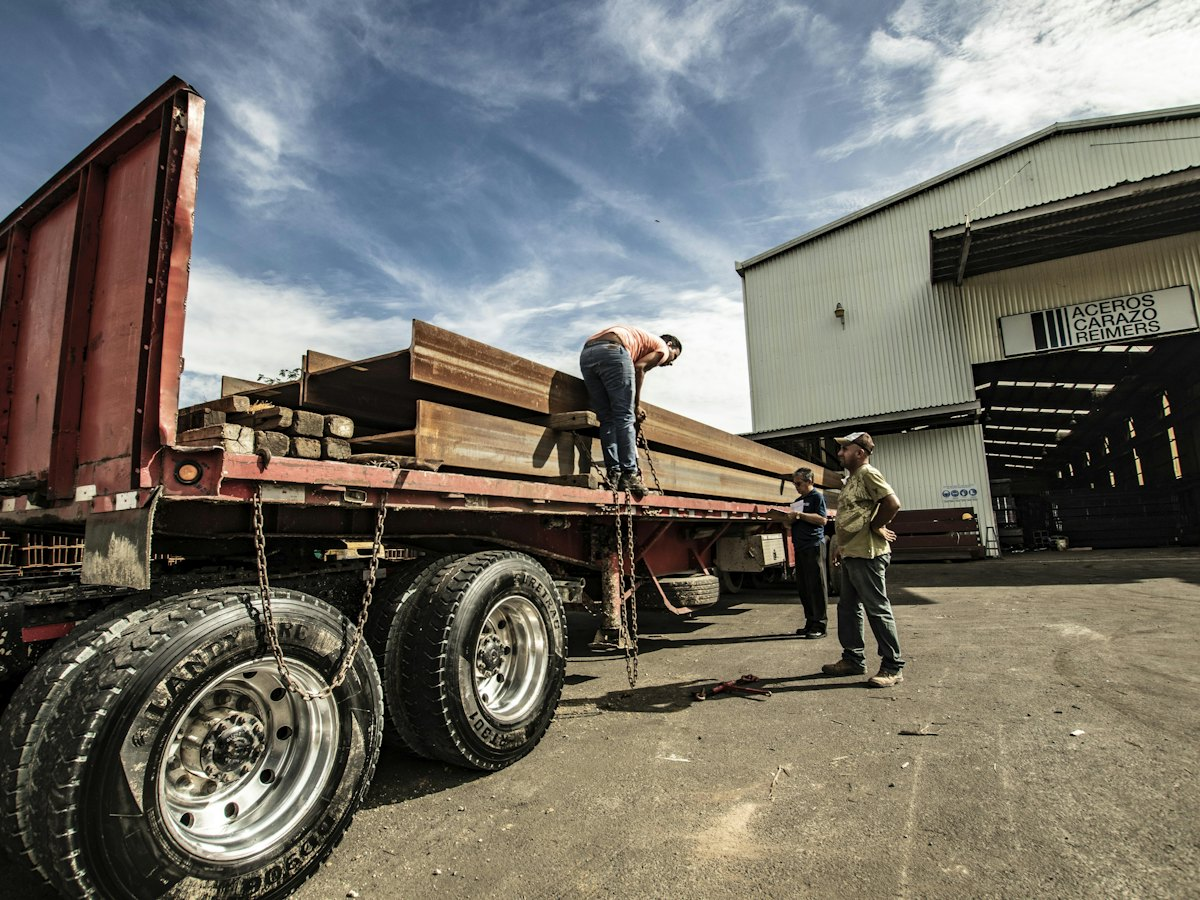
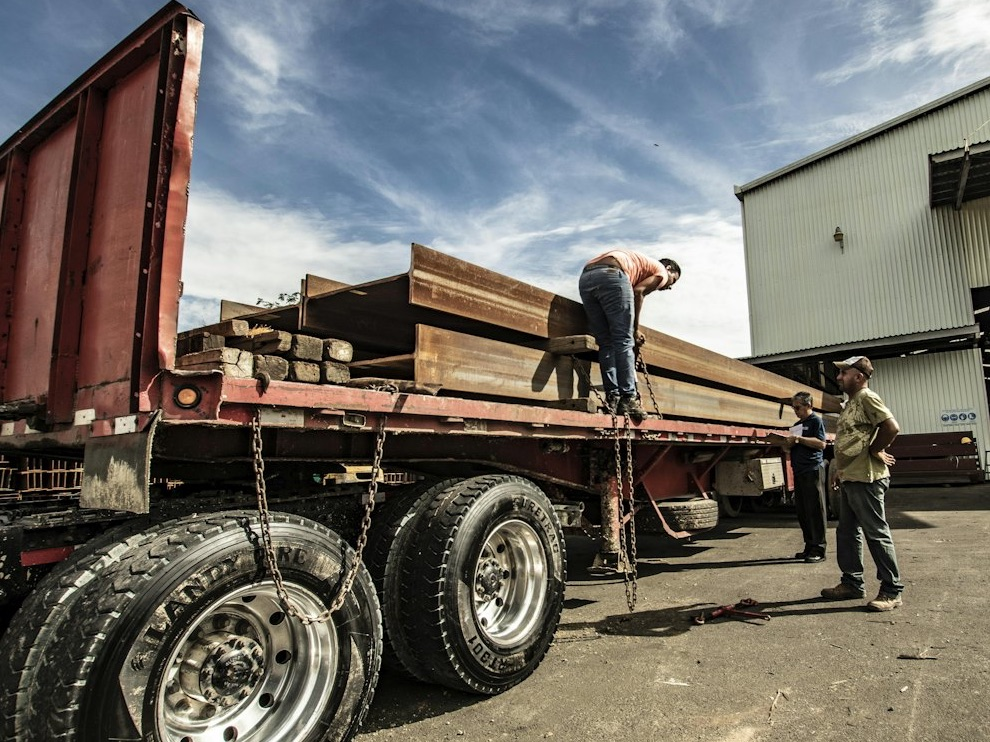
Ferretería: portada recortada sin el rótulo de otra empresa

diff --git a/src/demos/ferreteria/FerreteriaDemo.tsx b/src/demos/ferreteria/FerreteriaDemo.tsx
@@ -204,7 +204,7 @@ function Portada({ buscar }: { buscar: (t: string) => void }) {
             </div>
           </div>
           <figure className="relative">
-            <img src={AMBIENTE.portada} alt="Camión de plataforma cargando acero frente a una bodega" width={1200} height={900} fetchPriority="high" className="block aspect-[4/3] w-full rounded-xl border border-slate-200 object-cover" />
+            <img src={AMBIENTE.portada} alt="Camión de plataforma cargando acero frente a una bodega" width={990} height={742} fetchPriority="high" className="block aspect-[4/3] w-full rounded-xl border border-slate-200 object-cover" />
             <figcaption className="ik-oscuro absolute inset-x-3 bottom-3 flex items-center justify-between gap-3 rounded-lg bg-[#0F172A] px-4 py-3 text-white">
               <span className="text-[0.86rem] font-semibold">Flete propio hasta su obra</span>
               <span className="ik-num whitespace-nowrap text-[0.86rem] font-bold">desde {qz(Math.min(...ZONAS.map((z) => z.flete)))}</span>

diff --git a/src/assets/demo-ferreteria/FUENTES.md b/src/assets/demo-ferreteria/FUENTES.md
@@ -14,7 +14,7 @@ Origen de cada una: https://images.unsplash.com/ + el identificador.
 - cinta: photo-1602503497726-dc6cfaab7e17
 - tubo: photo-1649706286480-1c6f3f3c1fb1
 - llave: photo-1687184464107-3804b88644c9
-- portada: photo-1543510425-1eccdf3ae819
+- portada: photo-1543510425-1eccdf3ae819 (recortada a 990 × 742 para quitar el rótulo de otra empresa)
 - tienda: photo-1774273177331-4c19e9912071
 - entrega: photo-1783142511213-3d4b8946ad53
 - lamina: photo-1602064828974-fcac67d33f4e
